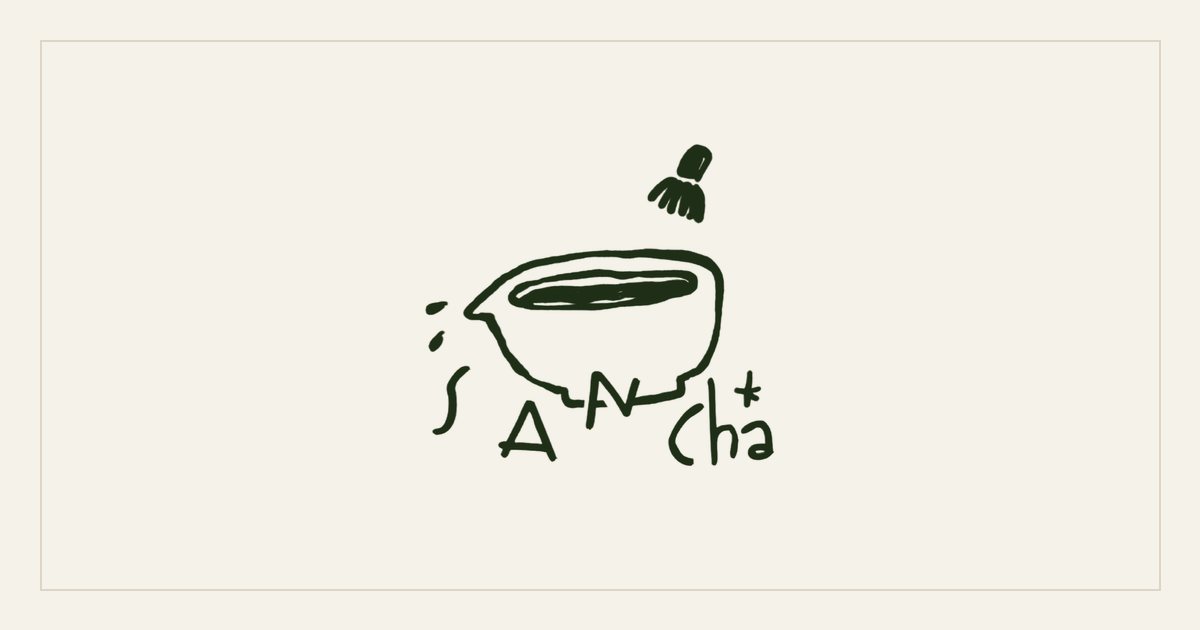
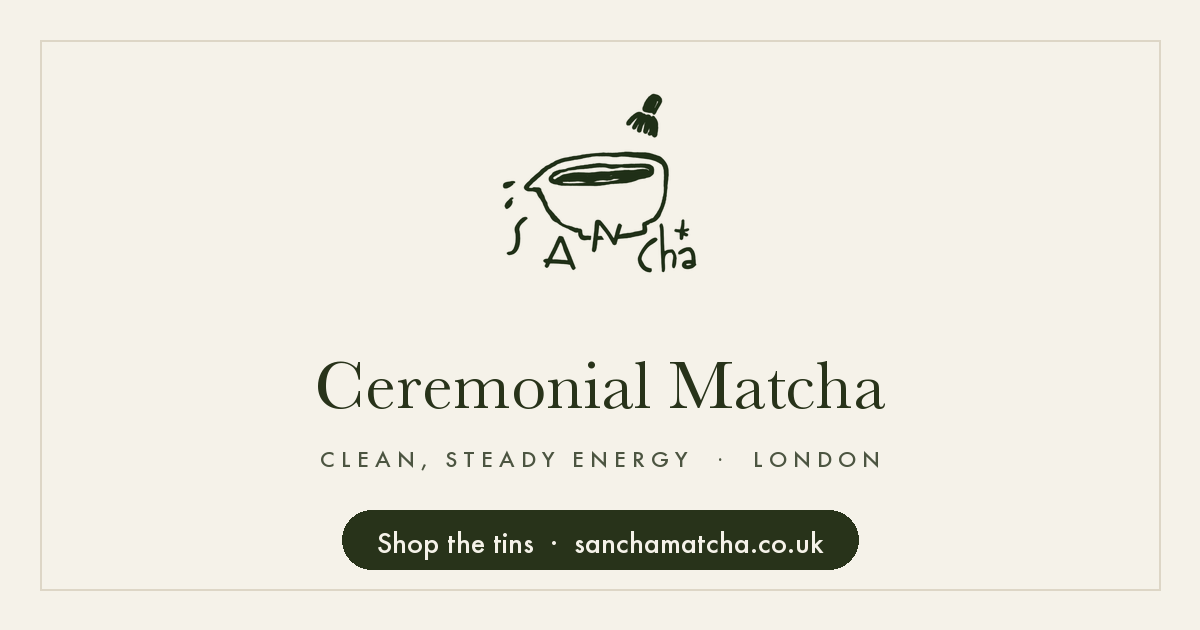
Improve OG image (headline + CTA) and shorten og:description
- Regenerate og-image.png with 'Ceremonial Matcha' headline, tagline,
  and a 'Shop the tins' CTA pill for a more clickable social preview
- Trim og:description to ~115 chars to avoid mobile truncation

diff --git a/index.html b/index.html
@@ -13,7 +13,7 @@
 <meta property="og:type" content="website">
 <meta property="og:site_name" content="SANcha">
 <meta property="og:title" content="SANcha — Ceremonial Matcha · London">
-<meta property="og:description" content="Ceremonial-grade matcha for clean, steady energy. Founded by three friends in London. Shop IKI & YUAN tinned matcha, and wholesale supply.">
+<meta property="og:description" content="Ceremonial-grade matcha for clean, steady energy. Founded by three friends in London. Shop tins & wholesale supply.">
 <meta property="og:url" content="https://sanchamatcha.co.uk/">
 <meta property="og:image" content="https://sanchamatcha.co.uk/assets/og-image.png">
 <meta property="og:image:width" content="1200">
